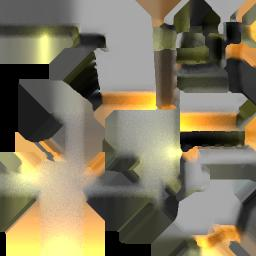
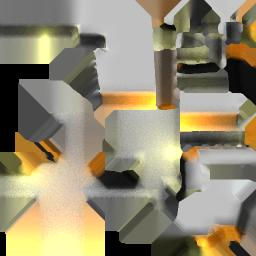
[changed] assets for better lighting
git-svn-id: https://libgdx.googlecode.com/svn/trunk@2154 6c4fd544-2939-11df-bb46-9574ba5d0bfa

diff --git a/extensions/model-loaders/model-loaders/src/com/badlogic/gdx/graphics/g3d/test/QbobViewer.java b/extensions/model-loaders/model-loaders/src/com/badlogic/gdx/graphics/g3d/test/QbobViewer.java
@@ -36,7 +36,7 @@ public class QbobViewer implements ApplicationListener {
 			lightMaps[3] = new Texture(Gdx.files.internal("data/world_blobbie_lm_04.jpg"), true);
 		//}
 		
-		diffuse = new Texture(Gdx.files.internal("data/world_blobbie_blocks_512.png"), true);
+		diffuse = new Texture(Gdx.files.internal("data/world_blobbie_blocks.png"), true);
 		
 							
 									
